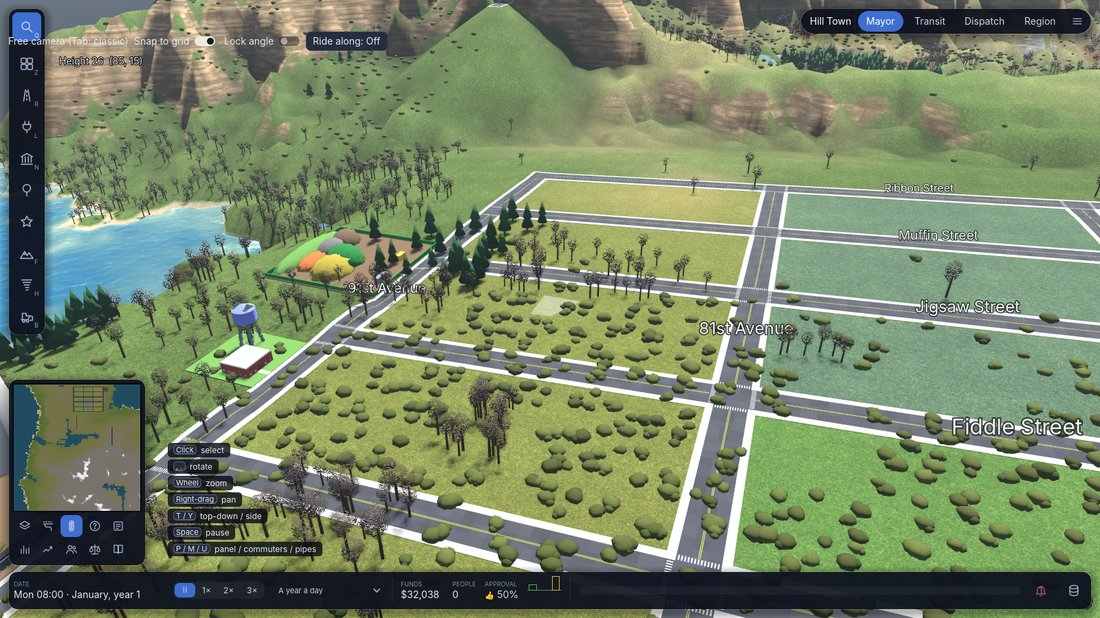
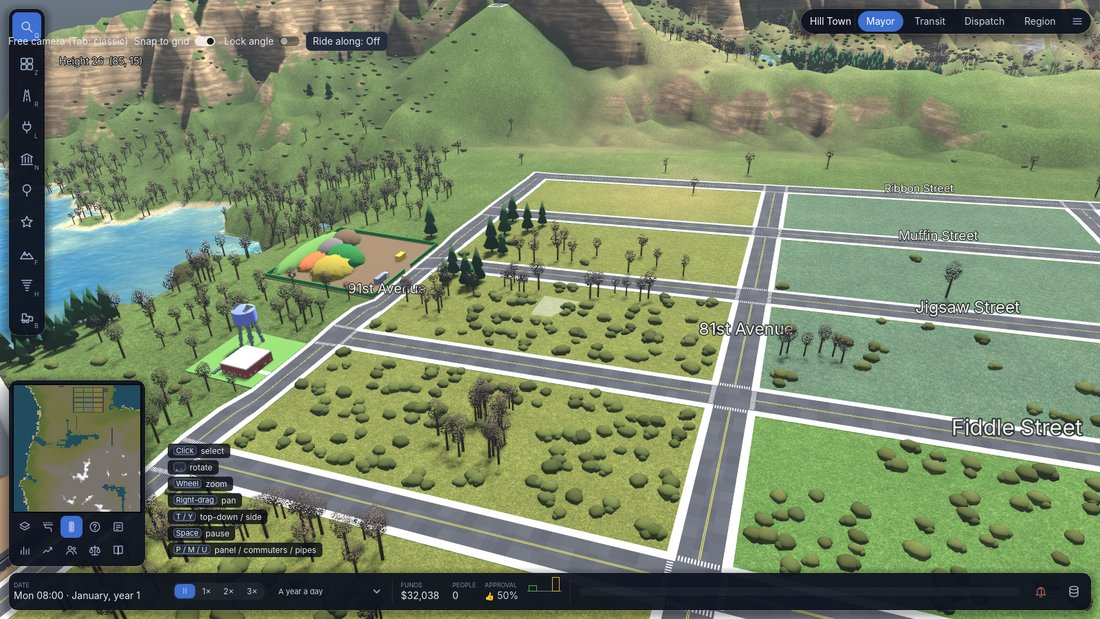
Clear plants under new building straight away
Trees and fields under a new road or building were only trimmed at the
end of the next day, so a new city's starter town, or anything built
while paused, showed woods growing through its streets. ApplyPending now
trims them as soon as the actions apply.

Claude-Session: https://claude.ai/code/session_01NPEbfPGESShDuwTLLXkdDx

diff --git a/tests/ToyCity.Sim.Tests/PlantTests.cs b/tests/ToyCity.Sim.Tests/PlantTests.cs
@@ -82,6 +82,14 @@ public class PlantTests(ITestOutputHelper output)
         var paved = Enumerable.Range(20, 10).Where(x => w2.Path[w2.Idx(x, y2)] != 0).ToList();
         Assert.NotEmpty(paved);
         Assert.All(paved, x => Assert.Equal(0, w2.Canopy[w2.Idx(x, y2)]));
+
+        // And straight away, before the day is run: a paused city's new street has no trees on it.
+        var w3 = City();
+        w3.Enqueue(new PlacePathAction(20, y2, 29, y2, "road"));
+        w3.ApplyPending();
+        var laid = Enumerable.Range(20, 10).Where(x => w3.Path[w3.Idx(x, y2)] != 0).ToList();
+        Assert.NotEmpty(laid);
+        Assert.All(laid, x => Assert.Equal(0, w3.Canopy[w3.Idx(x, y2)]));
     }
 
     [Fact]

diff --git a/src/ToyCity.Sim/World.cs b/src/ToyCity.Sim/World.cs
@@ -301,6 +301,10 @@ public sealed partial class World
             if (a is PlacePathAction or BulldozeAction) _edgeDirty = true;
         }
         _pending.Clear();
+        // What was just built takes the trees and fields under it now, not at the end of the next day: a paused city,
+        // or one founded with its starter town, would otherwise show woods growing through its new streets.
+        TrimFarms();
+        TrimPlants();
         if (_edgeDirty)
         {
             CheckStrips();

diff --git a/README.md b/README.md
@@ -360,7 +360,7 @@ Each phase ends with a gate the build must pass before the next begins.
 
 | Date | Release | Highlights |
 | --- | --- | --- |
-| 2026-11-10 | **Release candidate, part 6.1: plants in their place** (PR #34) | Each kind of plant has a height it grows to. Broadleaf woods give way to conifers at 200 m (120 m on north faces), conifers stop at a treeline at 260 m, and only low scrub grows above that, up to the snow line at 280 m. Trees that are higher than their kind can live (in older saves, or planted there) die back over a few months. Nothing grows on sheer faces. Crowns now keep off the roads and buildings beside their cell, in the 3D view and on the web map. Grass is no longer smeared down cliffs, and rock beds stay level on them. [Gate](docs/GATE-RC6-TERRAIN.md#part-61-plants-in-their-place) |
+| 2026-11-10 | **Release candidate, part 6.1: plants in their place** (PR #34) | Each kind of plant has a height it grows to. Broadleaf woods give way to conifers at 200 m (120 m on north faces), conifers stop at a treeline at 260 m, and only low scrub grows above that, up to the snow line at 280 m. Trees that are higher than their kind can live (in older saves, or planted there) die back over a few months. Nothing grows on sheer faces. Building clears the plants under it straight away, even with the game paused. Before, a new city's starter streets kept their woods until the first day ran. Crowns now keep off the roads and buildings beside their cell, in the 3D view and on the web map. Grass is no longer smeared down cliffs, and rock beds stay level on them. [Gate](docs/GATE-RC6-TERRAIN.md#part-61-plants-in-their-place) |
 | 2026-11-10 | **Release candidate, part 6: terrain textures** (PR #33) | The ground has real textures in place of flat colours: meadow in tussocks with clover and flowers, dry grass, bare and tilled earth, mud with puddles, rippled sand, river gravel, scree, bedrock, shale, sandstone, limestone and granite as each breaks, snow, and leaf and needle litter under woods. Each is made in code as a tiling texture with colour, height, normals, roughness and shading in its hollows, the same on every machine. The terrain shader blends them by slope, height, soil, moisture (wetter by rivers, drier on south faces and in late summer), the rock under the ground and the plant layer, maps cliffs from the side so rock beds lie level, and adds relief and shade up close. Hollows are darker from afar, and a broad variation keeps big meadows from looking flat. A new Ground graphics option picks plain, textured, relief or fine (1024 px). The web map paints with the textures' average colours. [Gate](docs/GATE-RC6-TERRAIN.md) |
 | 2026-11-07 | **Release candidate, part 5: polygon buildings** (PR #32) | Buildings can be made of real walls in 23 textured finishes (brick, render, stone, clapboard, wood, slate, clay tiles, shingles, metal and more), laid on in metres. The asset editor's Wall tool draws walls round a plan by clicking, puts windows, doors, garage doors and arches in where you click (cut through the wall, with frames, sills and glass) and takes them out, and paints any wall another finish. "Brick house" builds a two-storey house of walls and parts under a slate roof with brick gables, and the realistic set's middle and high-wealth houses come in walled versions. A straightened photo goes on as a textured wall, and glTF and OBJ models come in with their textures; anything can go out as a .glb. Textures are saved inside the asset. When a polygon building is wrecked, its surface turns into voxels in its textures' colours and breaks up as the voxel houses do. [Gate](docs/GATE-RC5-POLYGONS.md) |
 | 2026-11-07 | **Release candidate, part 4: the path designer** (PR #31) | Design your own path types from their cross-section, as in Streetmix: sidewalks, street trees, bike lanes, shared paths, parking, drive and turn lanes, tram tracks, medians, shoulders and country lanes, laid out left to right and each widened a quarter metre at a time. The city works out what it makes of it with rules fitted to the built-in types: who uses it, its speed (a stroad's 60 with nothing to slow it, 30 with narrow lanes), lanes and capacity, cost and upkeep, noise, how steep it climbs and what it's paved with. Designs go in the build menu under Your designs, are saved with the city, drawn from their strips (bike lanes painted green), and can be redesigned in place, rebuilding what's built for the difference in cost. [Gate](docs/GATE-RC4-PATHS.md) |

diff --git a/docs/GATE-RC6-TERRAIN.md b/docs/GATE-RC6-TERRAIN.md
@@ -109,6 +109,10 @@ grew over the roads.
   - Each month, trees above the band their kind lives in, from an older save or a planting, lose a crown a third of
     the time, until they're gone.
   - The tree planter plants a conifer where a broadleaf wouldn't live, and won't plant above the treeline.
+- **Cleared when built:** trees and fields under anything built used to be cleared only at the end of the next day
+  run. A new city's starter town, and anything built while paused, kept its woods growing through the new streets.
+  That was most of what showed on the roads in the part 6 shots. `ApplyPending` now clears them as soon as the
+  actions apply.
 - **Off the roads:** a crown used to stand anywhere from 8% to 92% of the way across its cell. A bush or tree beside
   a road could hang up to 3 m over it. Now a cell's crowns keep off any side with a road or a building next to it, by
   as far as their crown reaches. This holds in the 3D view (`TreeLayout.Spots`, `TreesView`) and on the web map
@@ -121,5 +125,6 @@ grew over the roads.
 - **New tests:**
   - Sim: on six maps, some of them mountainous, nothing grows above its kind's band.
   - ClientModel: crowns stay inside a cell whose four sides all keep them off.
+  - Sim: a street laid while paused has no trees on it before the day runs. Without the fix, this test fails.
 - **Test suites:** ClientModel (209) and Sim (322) pass.
 - **Godot runs:** the hills run and the mountains run pass.
